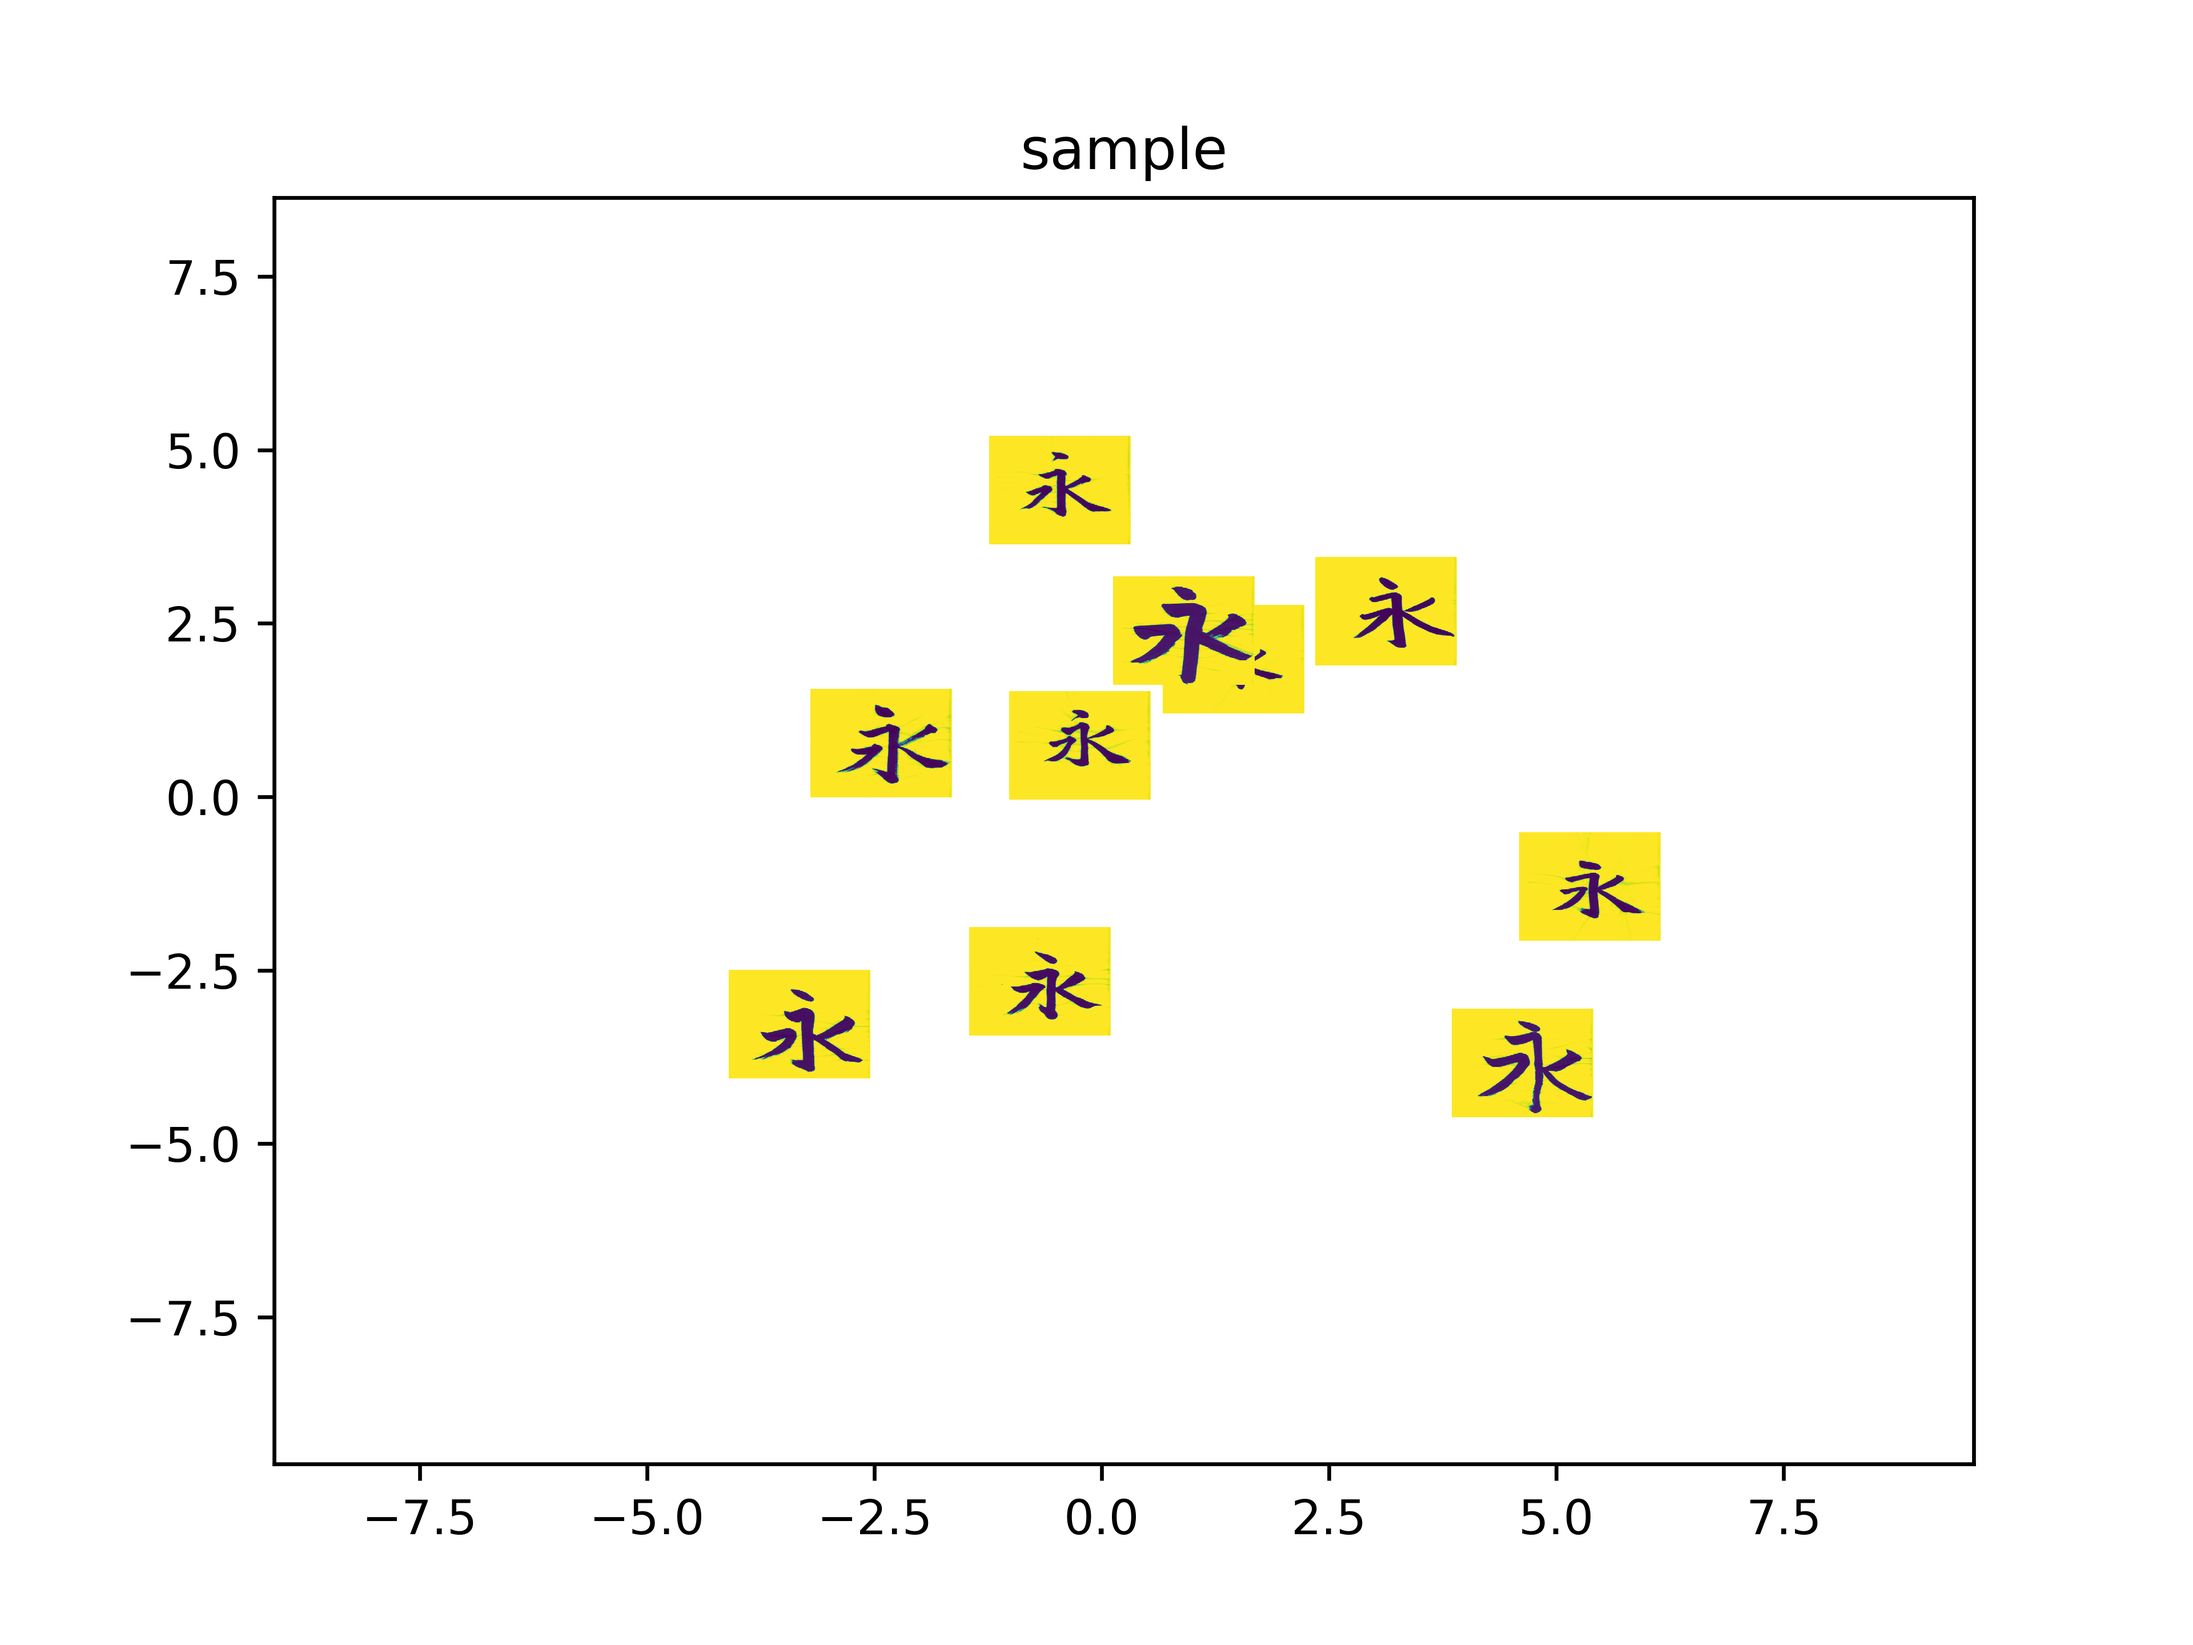
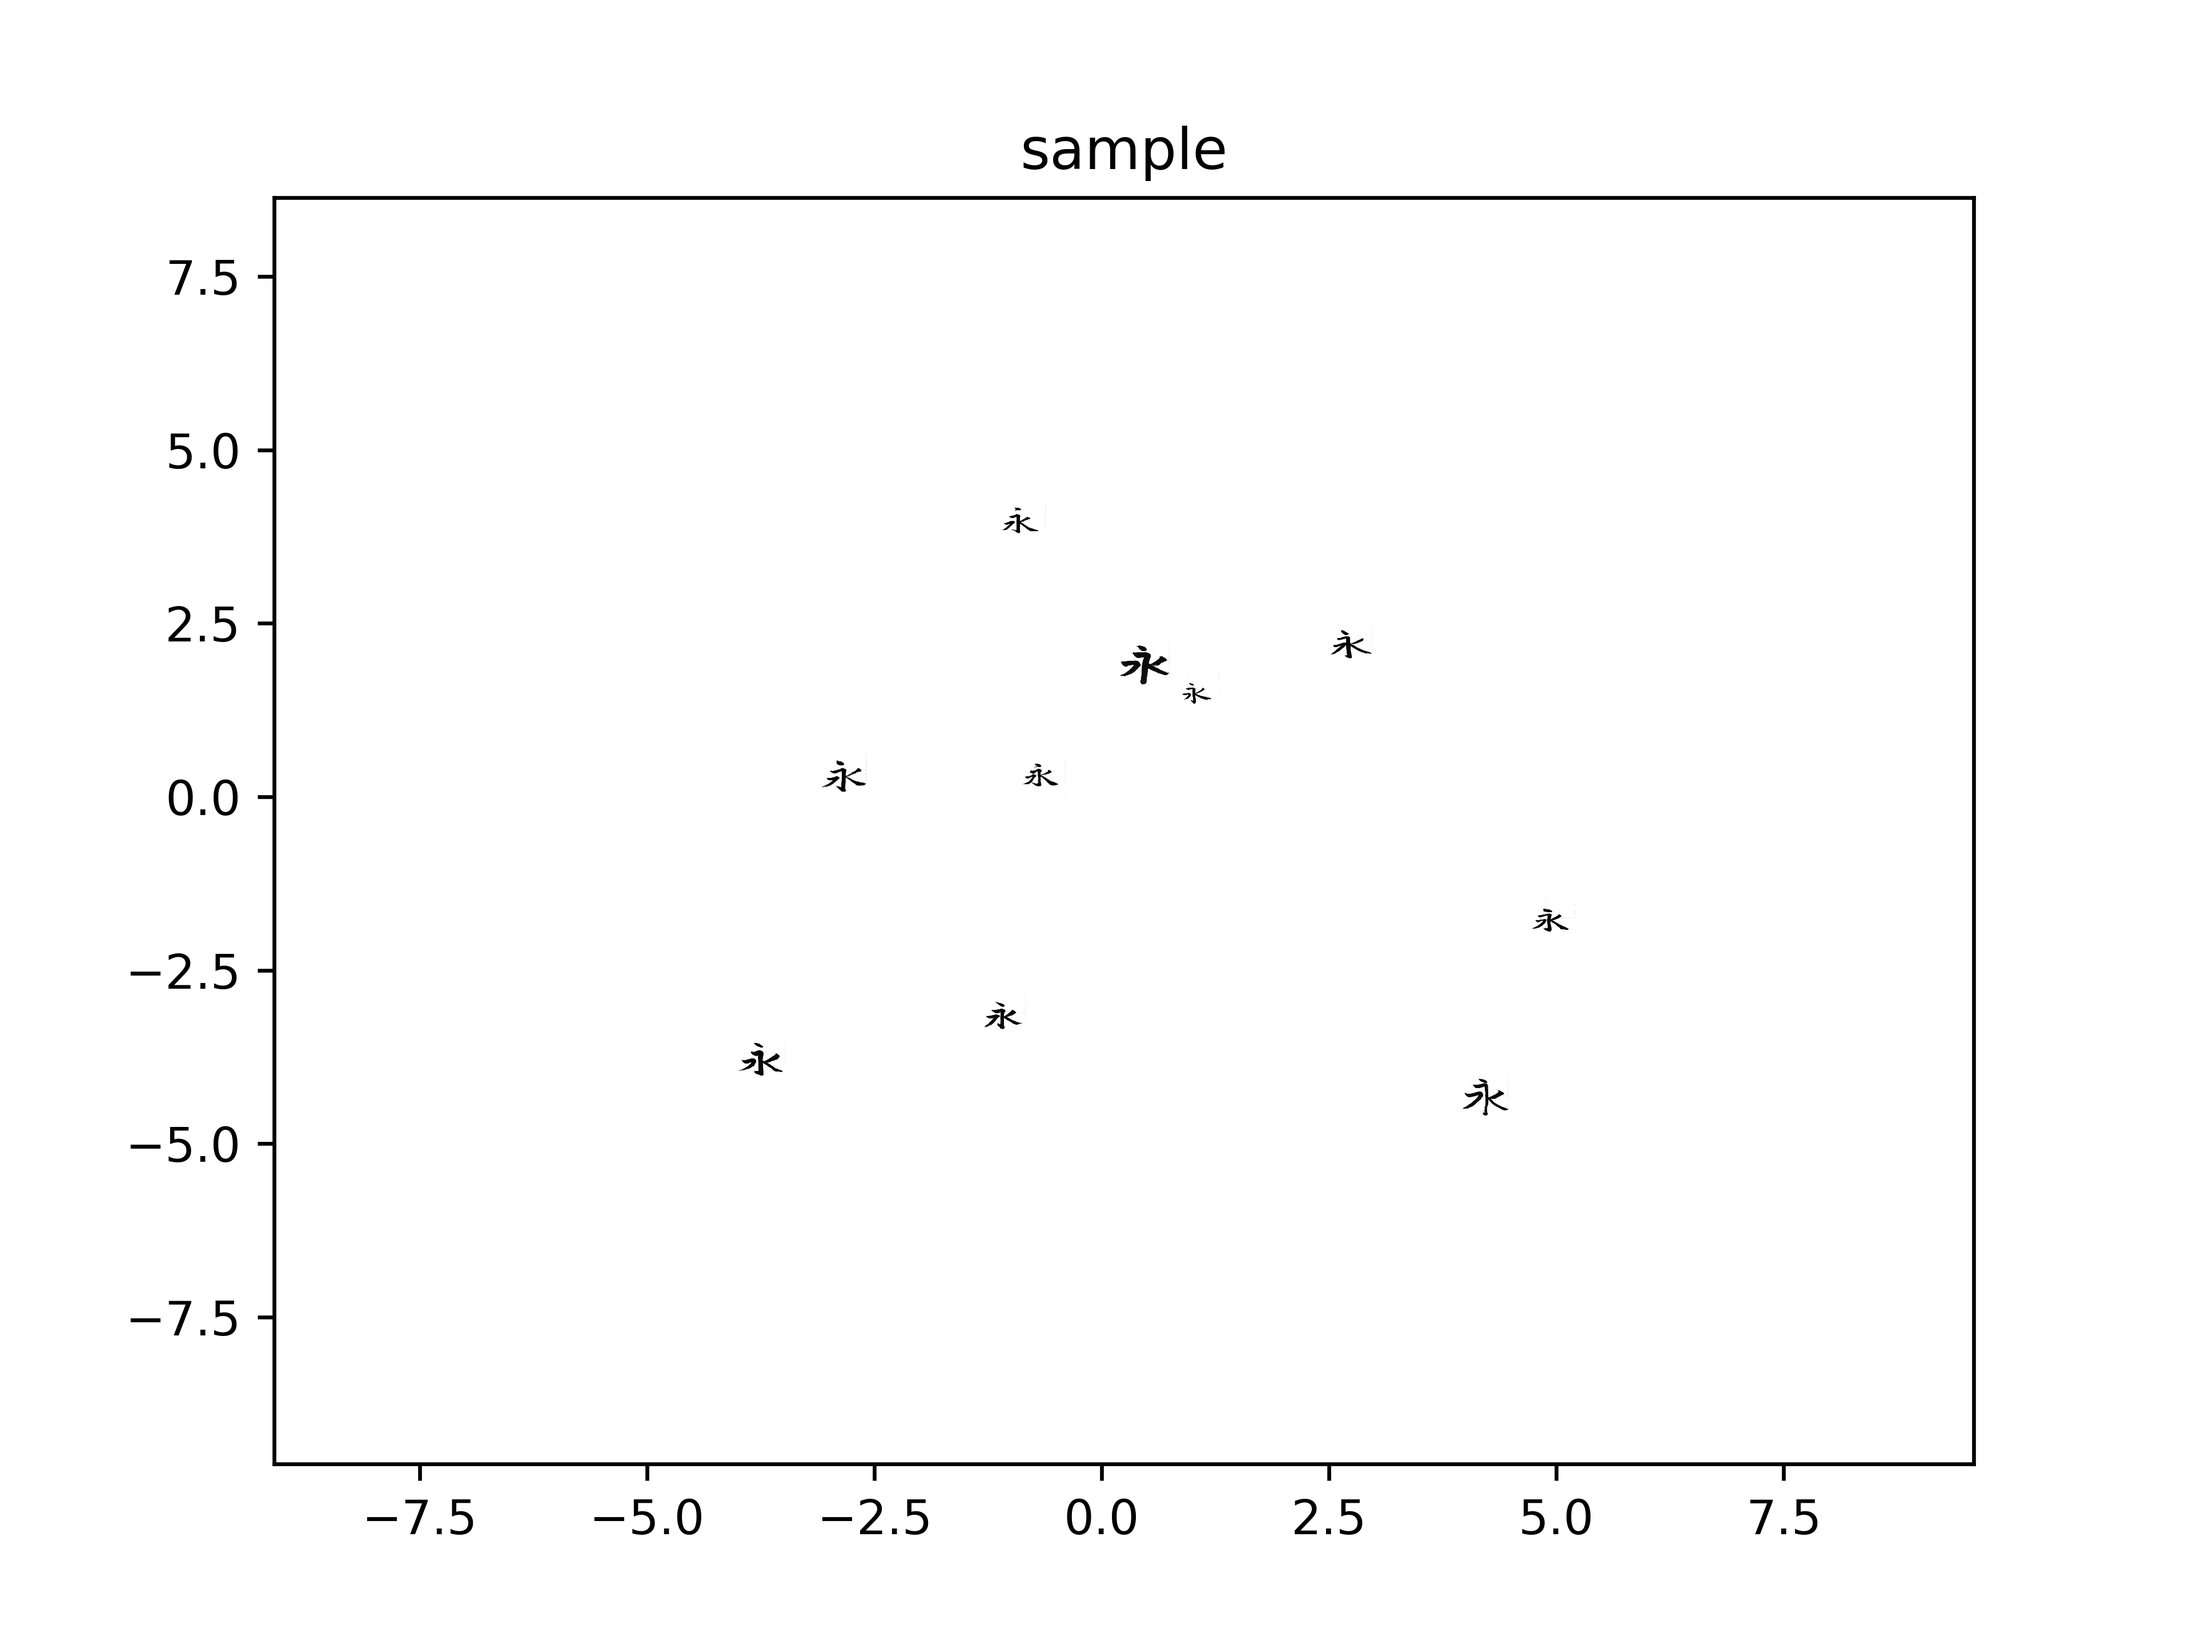
fixed background color of each character to be white

diff --git a/thumb_scatter.py b/thumb_scatter.py
@@ -100,7 +100,7 @@ def scatter_image(feature_x, feature_y, image_paths, title, save=None):
 		disp_size = max ( xlim[1]-xlim[0], ylim[1]-ylim[0] ) / Num
 		bb = Bbox.from_bounds(x, y, disp_size*Scale, disp_size * Scale)
 		bb2 = TransformedBbox(bb, ax.transData)
-		bbox_image = BboxImage(bb2, norm=None, origin=None, clip_on=False)
+		bbox_image = BboxImage(bb2, cmap='gray', norm=None, origin=None, clip_on=False)
 
 		if EmpCode != "" and get_class ( path ) == EmpCode :
 			print ( "{}".format (EmpCode) )
